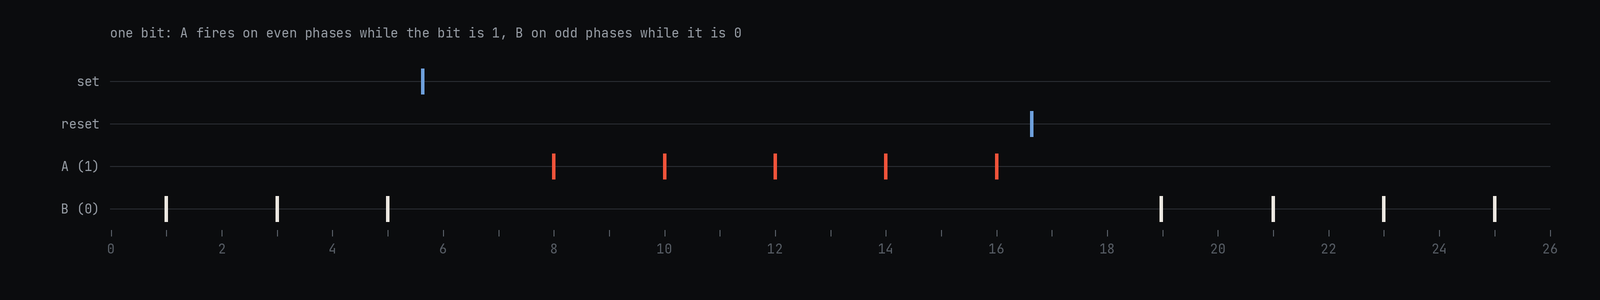
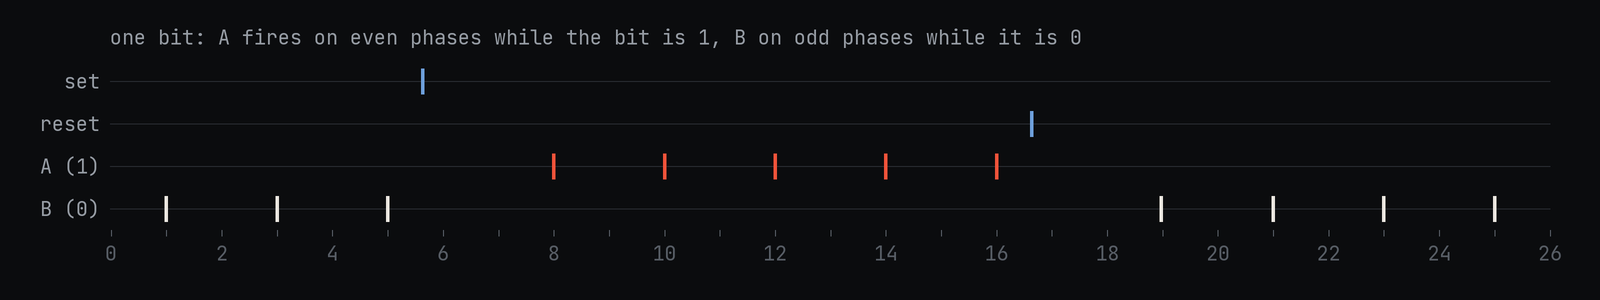
Update figures, citation and license text

diff --git a/docs/figures.py b/docs/figures.py
@@ -60,7 +60,7 @@ def nor_figure():
     cases = [(0, 0), (1, 0), (0, 1), (1, 1)]
     W, H = 1600, 460
     img, d = canvas(W, H)
-    small, label = font(MONO, 13), font(MONO, 15)
+    small, label = font(MONO, 20), font(MONO, 22)
     pw = (W - 80 - 3 * 30) / 4
     for n, bits in enumerate(cases):
         c = Circuit(20)
@@ -93,16 +93,16 @@ def nor_figure():
         d.text((x0 * S, (y0 - 34) * S), f"A={bits[0]}  B={bits[1]}", font=label, fill=FG)
         d.text(((x0 + ph) * S, (y0 - 34) * S), "fires" if fired else "silent", font=label,
                fill=ACCENT if fired else FG3, anchor="ra")
-    d.text((40 * S, 30 * S), "membrane voltage (mV) of one NOR neuron over four phases, for each input case", font=small, fill=FG2)
+    d.text((40 * S, 12 * S), "membrane voltage (mV) of one NOR neuron over four phases, for each input case", font=small, fill=FG2)
     y = 90 + 230 + 60
     d.polygon([(40 * S, y * S), (34 * S, (y + 12) * S), (46 * S, (y + 12) * S)], fill=FG2)
     d.text((54 * S, (y - 2) * S), "clock spike (+242)", font=small, fill=FG2)
-    d.polygon([(260 * S, y * S), (254 * S, (y + 12) * S), (266 * S, (y + 12) * S)], fill=BLUE)
-    d.text((274 * S, (y - 2) * S), "input spike (−242)", font=small, fill=FG2)
-    d.line((480 * S, (y + 6) * S, 510 * S, (y + 6) * S), fill=LINE, width=S)
-    d.text((520 * S, (y - 2) * S), "threshold −45 mV", font=small, fill=FG2)
-    d.line((720 * S, y * S, 720 * S, (y + 14) * S), fill=ACCENT, width=2 * S)
-    d.text((730 * S, (y - 2) * S), "output spike", font=small, fill=FG2)
+    d.polygon([(400 * S, y * S), (394 * S, (y + 12) * S), (406 * S, (y + 12) * S)], fill=BLUE)
+    d.text((414 * S, (y - 2) * S), "input spike (−242)", font=small, fill=FG2)
+    d.line((760 * S, (y + 6) * S, 790 * S, (y + 6) * S), fill=LINE, width=S)
+    d.text((800 * S, (y - 2) * S), "threshold −45 mV", font=small, fill=FG2)
+    d.line((1080 * S, y * S, 1080 * S, (y + 14) * S), fill=ACCENT, width=2 * S)
+    d.text((1090 * S, (y - 2) * S), "output spike", font=small, fill=FG2)
     save(img, "fig_nor.png")
 
 
@@ -136,7 +136,7 @@ def clock_figure():
     _, spikes = trace(c, [c.ring[0]], t1)
     W, H = 1600, 440
     img, d = canvas(W, H)
-    small = font(MONO, 13)
+    small = font(MONO, 20)
     box = (110, 70, W - 160, 280)
     raster(d, c.ring, spikes, 0, t1, box, [f"R{k}" for k in range(12)], [FG] * 12, small)
     phase_axis(d, 0, t1, box, p, small, every=2)
@@ -162,7 +162,7 @@ def latch_figure():
     _, spikes = trace(c, [a], t1, kicks)
     W, H = 1600, 300
     img, d = canvas(W, H)
-    small = font(MONO, 13)
+    small = font(MONO, 20)
     box = (110, 60, W - 160, 170)
     raster(d, [s, r, a, b], spikes, 0, t1, box, ["set", "reset", "A (1)", "B (0)"], [BLUE, BLUE, ACCENT, FG], small)
     phase_axis(d, 0, t1, box, p, small, every=2)
@@ -174,7 +174,7 @@ def latch_figure():
 def system_figure():
     W, H = 1600, 520
     img, d = canvas(W, H)
-    small, name = font(MONO, 13), font(DISPLAY, 19)
+    small, name = font(MONO, 20), font(DISPLAY, 26)
 
     def node(x, y, w, h, title, sub, hot=False, fill=PANEL):
         d.rounded_rectangle((x * S, y * S, (x + w) * S, (y + h) * S), radius=8 * S, fill=fill,
@@ -198,18 +198,18 @@ def system_figure():
 
     d.rounded_rectangle((260 * S, 40 * S, 1340 * S, 480 * S), radius=14 * S, outline=LINE, width=S)
     d.text((280 * S, 58 * S), "fly brain: 138,639 neurons", font=small, fill=FG3)
-    node(620, 90, 360, 110, "FPU + GPU", "added neurons, same LIF model", hot=True)
+    node(600, 90, 400, 110, "FPU + GPU", "added LIF neurons", hot=True)
     node(300, 330, 260, 90, "LC10c · LC4", "visual neurons")
     node(1040, 330, 260, 90, "DNa02 · DNp01", "descending neurons")
     node(670, 330, 260, 90, "rest of the brain", "existing synapses", fill=GROUND)
-    node(40, 330, 180, 90, "eyes", "2 × 721 ommatidia")
+    node(20, 330, 220, 90, "eyes", "2 × 721 facets")
     node(1380, 330, 180, 90, "legs", "FlyGym")
-    arrow([(220, 375), (300, 375)])
+    arrow([(240, 375), (300, 375)])
     arrow([(560, 375), (670, 375)])
     arrow([(930, 375), (1040, 375)])
     arrow([(1300, 375), (1380, 375)], "turn")
-    arrow([(700, 200), (700, 260), (430, 260), (430, 330)], "output bits drive follower neurons", hot=True, seg=1)
-    arrow([(1170, 330), (1170, 260), (900, 260), (900, 200)], "capture neurons set input bits", hot=True, seg=1)
+    arrow([(700, 200), (700, 260), (430, 260), (430, 330)], "output bits", hot=True, seg=1)
+    arrow([(1170, 330), (1170, 260), (900, 260), (900, 200)], "input bits", hot=True, seg=1)
     save(img, "fig_system.png")
 
 

diff --git a/README.md b/README.md
@@ -161,20 +161,19 @@ tests/       neurons, fpu, gpu, radio, learning
 
 ## Citing
 
-If you use Cyberfly in your work, please cite it. GitHub's "Cite this repository" button reads [CITATION.cff](CITATION.cff); in BibTeX:
+Please cite Cyberfly as
 
 ```bibtex
-@software{wirth2026cyberfly,
+@software{cyberfly2026,
   author  = {Wirth, Bodo and Kannan, Naveen},
-  title   = {{cyberfly}: a computer compiled into the brain of a fruit fly},
+  title   = {Cyberfly: a RISC-V computer in a fruit fly brain},
   year    = {2026},
   version = {0.1.0},
-  url     = {https://github.com/bodow1/cyberfly},
-  license = {MIT}
+  url     = {https://github.com/bodow1/cyberfly}
 }
 ```
 
-Upstream work:
+Cyberfly builds on the following work.
 
 - Shiu, P. K. et al. A *Drosophila* computational brain model reveals sensorimotor processing. *Nature* 634, 210–219 (2024).
 - Dorkenwald, S. et al. Neuronal wiring diagram of an adult brain. *Nature* 634, 124–138 (2024).
@@ -190,4 +189,4 @@ Upstream work:
 
 ## License
 
-The code is MIT. The FlyWire connectome is downloaded rather than included and is subject to the [FlyWire terms](https://codex.flywire.ai/about_flywire).
+Cyberfly is released under the MIT License, see [LICENSE](LICENSE). The FlyWire connectome is not part of this repository. `cyberfly.connectome` downloads it, and its use is governed by the [FlyWire terms](https://codex.flywire.ai/about_flywire).
